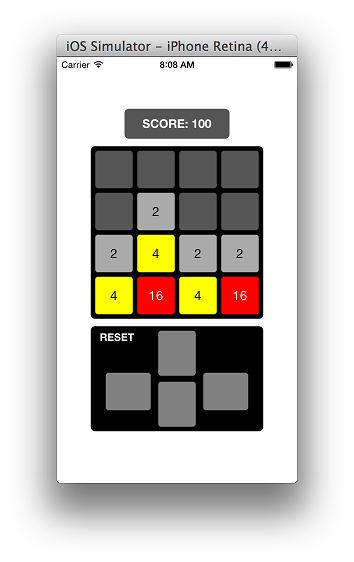
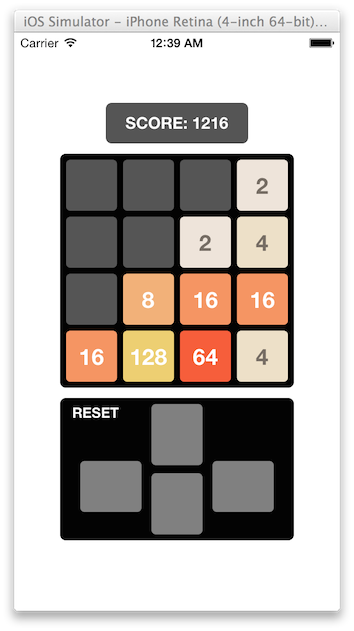
Various enhancements
Changes:
- Reworked default colors to better match 2048's
- Added option to specify font for number tiles
- Tile number label will now auto-shrink text to fit
- Fixed warnings involving casting between NSInteger and C default types
- Log statements no longer outputted for non-debug builds

diff --git a/NumberTileGame/NumberTileGame/Views/F3HGameboardView.m b/NumberTileGame/NumberTileGame/Views/F3HGameboardView.m
@@ -10,9 +10,15 @@
 
 #import <QuartzCore/QuartzCore.h>
 #import "F3HTileView.h"
-#import "F3HTileColorProvider.h"
+#import "F3HTileAppearanceProvider.h"
 
 #define PER_SQUARE_SLIDE_DURATION 0.08
+
+#if DEBUG
+#define F3HLOG(...) NSLog(__VA_ARGS__)
+#else
+#define F3HLOG(...)
+#endif
 
 // Animation parameters
 #define TILE_POP_START_SCALE    0.1
@@ -36,7 +42,7 @@
 @property (nonatomic) CGFloat padding;
 @property (nonatomic) CGFloat cornerRadius;
 
-@property (nonatomic, strong) F3HTileColorProvider *provider;
+@property (nonatomic, strong) F3HTileAppearanceProvider *provider;
 
 @end
 
@@ -100,7 +106,7 @@
 // Insert a tile, with the popping animation
 - (void)insertTileAtIndexPath:(NSIndexPath *)path
                     withValue:(NSUInteger)value {
-    NSLog(@"Inserting tile at row %d, column %d", path.row, path.section);
+    F3HLOG(@"Inserting tile at row %ld, column %ld", (long)path.row, (long)path.section);
     if (!path
         || path.row >= self.dimension
         || path.section >= self.dimension
@@ -146,8 +152,10 @@
             tileTwo:(NSIndexPath *)startB
         toIndexPath:(NSIndexPath *)end
           withValue:(NSUInteger)value {
-    NSLog(@"Moving tiles at row %d, column %d and row %d, column %d to destination row %d, column %d",
-          startA.row, startA.section, startB.row, startB.section, end.row, end.section);
+    F3HLOG(@"Moving tiles at row %ld, column %ld and row %ld, column %ld to destination row %ld, column %ld",
+           (long)startA.row, (long)startA.section,
+           (long)startB.row, (long)startB.section,
+           (long)end.row, (long)end.section);
     if (!startA || !startB || !self.boardTiles[startA] || !self.boardTiles[startB]
         || end.row >= self.dimension
         || end.section >= self.dimension) {
@@ -203,8 +211,8 @@
 - (void)moveTileAtIndexPath:(NSIndexPath *)start
                 toIndexPath:(NSIndexPath *)end
                   withValue:(NSUInteger)value {
-    NSLog(@"Moving tile at row %d, column %d to destination row %d, column %d",
-          start.row, start.section, end.row, end.section);
+    F3HLOG(@"Moving tile at row %ld, column %ld to destination row %ld, column %ld",
+           (long)start.row, (long)start.section, (long)end.row, (long)end.section);
     if (!start || !end || !self.boardTiles[start]
         || end.row >= self.dimension
         || end.section >= self.dimension) {
@@ -214,7 +222,7 @@
     F3HTileView *tile = self.boardTiles[start];
     F3HTileView *endTile = self.boardTiles[end];
     BOOL shouldPop = endTile != nil;
-
+    
     CGFloat x = self.padding + end.section*(self.tileSideLength + self.padding);
     CGFloat y = self.padding + end.row*(self.tileSideLength + self.padding);
     CGRect finalFrame = tile.frame;
@@ -254,9 +262,9 @@
                      }];
 }
 
-- (F3HTileColorProvider *)provider {
+- (F3HTileAppearanceProvider *)provider {
     if (!_provider) {
-        _provider = [F3HTileColorProvider new];
+        _provider = [F3HTileAppearanceProvider new];
     }
     return _provider;
 }

diff --git a/NumberTileGame/NumberTileGame/F3HTileAppearanceProvider.m b/NumberTileGame/NumberTileGame/F3HTileAppearanceProvider.m
@@ -1,0 +1,52 @@
+//
+//  F3HTileAppearanceProvider.m
+//  NumberTileGame
+//
+//  Created by Austin Zheng on 3/22/14.
+//
+//
+
+#import "F3HTileAppearanceProvider.h"
+
+@implementation F3HTileAppearanceProvider
+
+- (UIColor *)tileColorForValue:(NSUInteger)value {
+    switch (value) {
+        case 2:
+            return [UIColor colorWithRed:238./255. green:228./255. blue:218./255. alpha:1];
+        case 4:
+            return [UIColor colorWithRed:237./255. green:224./255. blue:200./255. alpha:1];
+        case 8:
+            return [UIColor colorWithRed:242./255. green:177./255. blue:121./255. alpha:1];
+        case 16:
+            return [UIColor colorWithRed:245./255. green:149./255. blue:99./255. alpha:1];
+        case 32:
+            return [UIColor colorWithRed:246./255. green:124./255. blue:95./255. alpha:1];
+        case 64:
+            return [UIColor colorWithRed:246./255. green:94./255. blue:59./255. alpha:1];
+        case 128:
+        case 256:
+        case 512:
+        case 1024:
+        case 2048:
+            return [UIColor colorWithRed:237./255. green:207./255. blue:114./255. alpha:1];
+        default:
+            return [UIColor whiteColor];
+    }
+}
+
+- (UIColor *)numberColorForValue:(NSUInteger)value {
+    switch (value) {
+        case 2:
+        case 4:
+            return [UIColor colorWithRed:119./255. green:110./255. blue:101./255. alpha:1];
+        default:
+            return [UIColor whiteColor];
+    }
+}
+
+- (UIFont *)fontForNumbers {
+    return [UIFont fontWithName:@"HelveticaNeue-Bold" size:20];
+}
+
+@end

diff --git a/NumberTileGame/NumberTileGame/F3HNumberTileGameViewController.h b/NumberTileGame/NumberTileGame/F3HNumberTileGameViewController.h
@@ -8,8 +8,30 @@
 
 #import <UIKit/UIKit.h>
 
+@protocol F3HNumberTileGameProtocol <NSObject>
+/*!
+ Inform the delegate that the user completed a game.
+
+ \param didWin   YES if the player won, NO otherwise
+ \param score    the final score the player achieved
+ */
+- (void)gameFinishedWithVictory:(BOOL)didWin score:(NSInteger)score;
+@end
+
 @interface F3HNumberTileGameViewController : UIViewController
 
+@property (nonatomic, weak) id<F3HNumberTileGameProtocol>delegate;
+
+/*!
+ Return an instance of the number tile game view controller.
+
+ \param dimension                how many tiles wide and high the gameboard should be
+ \param threshold                the tile value the player must achieve to win the game (e.g. 2048)
+ \param backgroundColor          the background color of the gameboard
+ \param scoreModuleEnabled       if YES, the score module will be visible
+ \param buttonControlsEnabled    if YES, the directional touch controls will be visible
+ \param swipeControlsEnabled     if YES, performing swipe gestures will advance the game (not implemented yet)
+ */
 + (instancetype)numberTileGameWithDimension:(NSUInteger)dimension
                                winThreshold:(NSUInteger)threshold
                             backgroundColor:(UIColor *)backgroundColor

diff --git a/NumberTileGame/NumberTileGame/Models/F3HMoveOrder.m b/NumberTileGame/NumberTileGame/Models/F3HMoveOrder.m
@@ -34,11 +34,16 @@
 
 - (NSString *)description {
     if (self.doubleMove) {
-        return [NSString stringWithFormat:@"MoveOrder (double, source1: %d, source2: %d, destination: %d, value: %d)",
-                self.source1, self.source2, self.destination, self.value];
+        return [NSString stringWithFormat:@"MoveOrder (double, source1: %ld, source2: %ld, destination: %ld, value: %ld)",
+                (long)self.source1,
+                (long)self.source2,
+                (long)self.destination,
+                (long)self.value];
     }
-    return [NSString stringWithFormat:@"MoveOrder (single, source: %d, destination: %d, value: %d)",
-            self.source1, self.destination, self.value];
+    return [NSString stringWithFormat:@"MoveOrder (single, source: %ld, destination: %ld, value: %ld)",
+            (long)self.source1,
+            (long)self.destination,
+            (long)self.value];
 }
 
 @end

diff --git a/NumberTileGame/NumberTileGame/Views/F3HTileView.m b/NumberTileGame/NumberTileGame/Views/F3HTileView.m
@@ -8,7 +8,7 @@
 
 #import "F3HTileView.h"
 
-#import "F3HTileColorProvider.h"
+#import "F3HTileAppearanceProvider.h"
 
 @interface F3HTileView ()
 
@@ -46,16 +46,18 @@
                                                                frame.size.width,
                                                                frame.size.height)];
     label.textAlignment = NSTextAlignmentCenter;
+    label.minimumScaleFactor = 0.5;
     [self addSubview:label];
     self.numberLabel = label;
     return self;
 }
 
-- (void)setDelegate:(id<F3HTileColorProviderProtocol>)delegate {
+- (void)setDelegate:(id<F3HTileAppearanceProviderProtocol>)delegate {
     _delegate = delegate;
     if (delegate) {
         self.backgroundColor = [delegate tileColorForValue:self.tileValue];
         self.numberLabel.textColor = [delegate numberColorForValue:self.tileValue];
+        self.numberLabel.font = [delegate fontForNumbers];
     }
 }
 

diff --git a/NumberTileGame/NumberTileGame/F3HNumberTileGameViewController.m b/NumberTileGame/NumberTileGame/F3HNumberTileGameViewController.m
@@ -143,6 +143,7 @@
 - (void)followUp {
     // This is the earliest point the user can win
     if ([self.model userHasWon]) {
+        [self.delegate gameFinishedWithVictory:YES score:self.model.score];
         UIAlertView *alert = [[UIAlertView alloc] initWithTitle:@"Victory!" message:@"You won!" delegate:nil cancelButtonTitle:@"OK" otherButtonTitles:nil];
         [alert show];
     }
@@ -156,6 +157,7 @@
         }
         // At this point, the user may lose
         if ([self.model userHasLost]) {
+            [self.delegate gameFinishedWithVictory:NO score:self.model.score];
             UIAlertView *alert = [[UIAlertView alloc] initWithTitle:@"Defeat!" message:@"You lost..." delegate:nil cancelButtonTitle:@"OK" otherButtonTitles:nil];
             [alert show];
         }

diff --git a/NumberTileGame/NumberTileGame/Models/F3HGameModel.m b/NumberTileGame/NumberTileGame/Models/F3HGameModel.m
@@ -73,7 +73,7 @@
     NSInteger row = 0;
     BOOL shouldExit = NO;
     while (YES) {
-        row = arc4random_uniform(self.dimension);
+        row = arc4random_uniform((uint32_t)self.dimension);
         // Check if row has any empty spots in column
         for (NSInteger i=0; i<self.dimension; i++) {
             if ([self tileForIndexPath:[NSIndexPath indexPathForRow:row inSection:i]].empty) {
@@ -88,7 +88,7 @@
     NSInteger column = 0;
     shouldExit = NO;
     while (YES) {
-        column = arc4random_uniform(self.dimension);
+        column = arc4random_uniform((uint32_t)self.dimension);
         if ([self tileForIndexPath:[NSIndexPath indexPathForRow:row inSection:column]].empty) {
             shouldExit = YES;
             break;

diff --git a/NumberTileGame/NumberTileGame/F3HTileAppearanceProvider.h b/NumberTileGame/NumberTileGame/F3HTileAppearanceProvider.h
@@ -1,5 +1,5 @@
 //
-//  F3HTileColorProvider.h
+//  F3HTileAppearanceProvider.h
 //  NumberTileGame
 //
 //  Created by Austin Zheng on 3/22/14.
@@ -8,13 +8,14 @@
 
 #import <Foundation/Foundation.h>
 
-@protocol F3HTileColorProviderProtocol <NSObject>
+@protocol F3HTileAppearanceProviderProtocol <NSObject>
 
 - (UIColor *)tileColorForValue:(NSUInteger)value;
 - (UIColor *)numberColorForValue:(NSUInteger)value;
+- (UIFont *)fontForNumbers;
 
 @end
 
-@interface F3HTileColorProvider : NSObject <F3HTileColorProviderProtocol>
+@interface F3HTileAppearanceProvider : NSObject <F3HTileAppearanceProviderProtocol>
 
 @end

diff --git a/NumberTileGame/NumberTileGame/Models/F3HMergeTile.m b/NumberTileGame/NumberTileGame/Models/F3HMergeTile.m
@@ -32,8 +32,11 @@
         case F3HMergeTileModeDoubleCombine:
             modeStr = @"DoubleCombine";
     }
-    return [NSString stringWithFormat:@"MergeTile (mode: %@, source1: %d, source2: %d, value: %d)",
-            modeStr, self.originalIndexA, self.originalIndexB, self.value];
+    return [NSString stringWithFormat:@"MergeTile (mode: %@, source1: %ld, source2: %ld, value: %ld)",
+            modeStr,
+            (long)self.originalIndexA,
+            (long)self.originalIndexB,
+            (long)self.value];
 }
 
 @end

diff --git a/NumberTileGame/NumberTileGame/Views/F3HTileView.h b/NumberTileGame/NumberTileGame/Views/F3HTileView.h
@@ -8,12 +8,12 @@
 
 #import <UIKit/UIKit.h>
 
-@protocol F3HTileColorProviderProtocol;
+@protocol F3HTileAppearanceProviderProtocol;
 @interface F3HTileView : UIView
 
 @property (nonatomic) NSInteger tileValue;
 
-@property (nonatomic, weak) id<F3HTileColorProviderProtocol>delegate;
+@property (nonatomic, weak) id<F3HTileAppearanceProviderProtocol>delegate;
 
 + (instancetype)tileForPosition:(CGPoint)position
                      sideLength:(CGFloat)side

diff --git a/NumberTileGame/NumberTileGame/Models/F3HTileModel.m b/NumberTileGame/NumberTileGame/Models/F3HTileModel.m
@@ -21,7 +21,7 @@
     if (self.empty) {
         return @"Tile (empty)";
     }
-    return [NSString stringWithFormat:@"Tile (value: %d)", self.value];
+    return [NSString stringWithFormat:@"Tile (value: %lu)", (unsigned long)self.value];
 }
 
 @end

diff --git a/NumberTileGame/NumberTileGame/Views/F3HScoreView.m b/NumberTileGame/NumberTileGame/Views/F3HScoreView.m
@@ -46,7 +46,7 @@
 
 - (void)setScore:(NSInteger)score {
     _score = score;
-    self.scoreLabel.text = [NSString stringWithFormat:@"SCORE: %d", score];
+    self.scoreLabel.text = [NSString stringWithFormat:@"SCORE: %ld", (long)score];
 }
 
 @end
